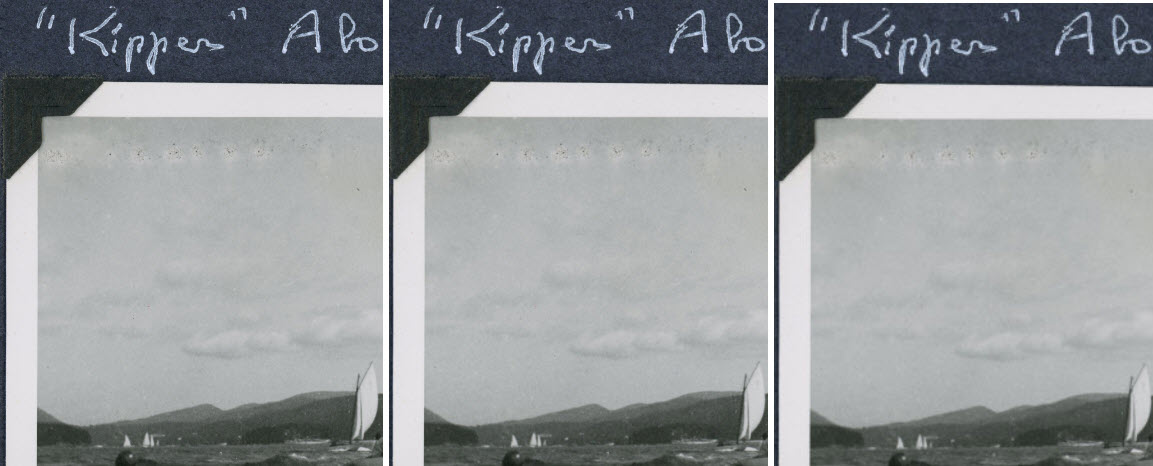
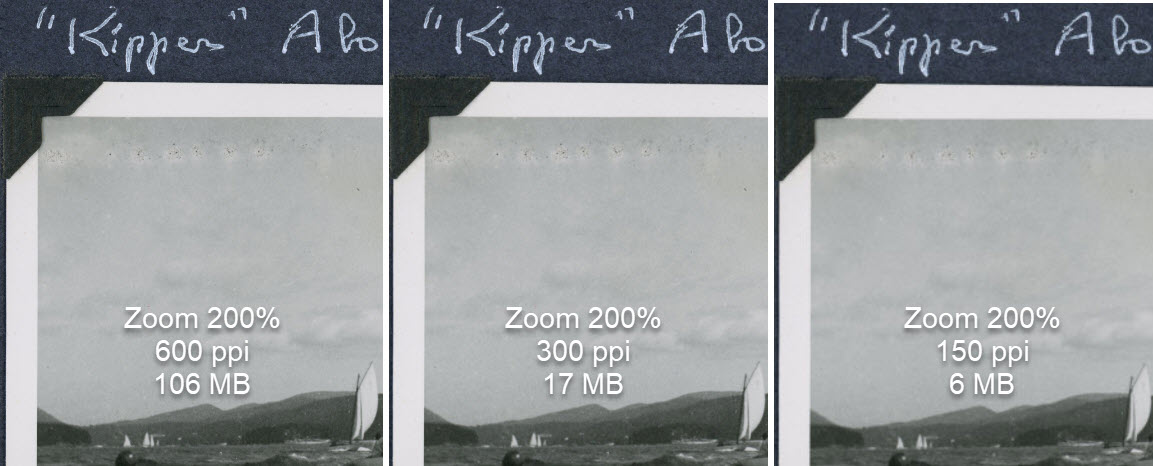
Updates.

Changed region(s): [[0.0937, 0.6609, 0.2498, 0.8712], [0.4371, 0.6609, 0.5932, 0.8712], [0.7806, 0.6609, 0.9367, 0.8712]]

diff --git a/digital-archive/docs/archivist/creating-pdfs.md b/digital-archive/docs/archivist/creating-pdfs.md
@@ -142,7 +142,13 @@ different results. Also, every PDF file is different and so you may need to expe
 for a specific file.
 
 This section focuses on the settings for color images, but the concepts are the same for monochrome images.
-The key options are **_Downsample_** and **_Compression_**, each of which has multiple sub-options.
+The key options are:
+
+- **_Downsample_**
+- **_Compression_**
+
+Downsampling reduces the resolution of images contained in the PDF and compression makes the downsized images
+take up less space in the PDF file. It is the combination of the two settings that makes the PDF file itself smaller.
 
 #### Downsample options
 Downsampling is the process of scaling an image down to smaller dimensions by discarding some of the image's
@@ -151,6 +157,9 @@ pixels using a downsampling algorithm. Here are guidelines for what options to c
 - Choose `Bicubic Downsampling` for the downsampling algorithm.
 - Type a ppi value in the first field and accept the value that appears in the second field.
 - Choose a ppi that is between 1/2 and 1/4 of the resolution used for scanning.
+
+As a guideline, cut the scanned resolution in half when the image may need to be viewed zoomed-in and
+file size is less important. Cut it to a quarter if file size is most important.
 
 Think of the ppi value like this. If you scanned an image at 600 ppi, typing 300 in the first field
 would be equivalent to rescanning the image at 300 ppi and the result would be in an image that had
@@ -165,28 +174,35 @@ acceptable quality and file size. When viewed on a computer monitor at 100%, you
 notice the difference between 600, 300 and 150 ppi results, but when zoomed in to 200% or 400%, the
 150 ppi result would look softer (not as sharp).
 
-The screenshot below shows what part of an image looks like when viewed at 200% on a computer monitor.
-The image was scanned at 600 ppi. From left to right, the images are shown at 600 ppi (before the PDF
-was optimized), 300 ppi, and 150 ppi.
+The screenshot below shows one of 13 scans from a photo album having pages 11.7" x 8.5" pages. The
+red rectangle shows the part of the page that is shown in the next set of screenshots.
+
+![pdf](pdf-5.jpg)
+
+The screenshots below shows what part of a page from the photo album looks like when viewed on
+a computer monitor zoomed in to 200%. The image was scanned at 600 ppi. From left to right, the
+images are shown at 600 ppi (before the PDF was optimized), 300 ppi, and 150 ppi. The files sizes
+(106 MB, 17 MB, and 6 MB) are for all 13 pages of the album.
 
 ![pdf](pdf-4.jpg)
-
-As a guideline, cut the scanned resolution in half when the image may need to be viewed zoomed-in and
-file size is less important. Cut it to a quarter if file size is most important.
 
 You can see the effects of downsampling in the [PPI decision tree](Scanner-PPI-Decision-Tree-by-George-Soules.pdf)
 document on pages 3 and 4.
 
 #### Compression options
 
-The **_Compression_** option is easy to choose. First, always choose `JPEG` for the type of compression. For **_Quality_**
-choose `High` when using Acrobat Pro and choose `Medium` when using Foxit. Based on experiments, Acrobat produced good
-results with high quality, but not with medium quality whereas Foxit results for high and medium were similar, but the
-resulting file size was much smaller with medium. Acrobat created an even smaller file at high quality than Foxit did with
-medium.
+The **_Compression_** option is easy to choose.
 
-Since you'll probably be using only one PDF program, you'll need to do your own experiments to determine which settings
-give you the best combination of quality and file size.
+- Choose `JPEG` for the type of compression.
+- Choose `High` **_Quality_** when using Acrobat Pro.
+- Choose `Medium` **_Quality_** when using Foxit.
+
+Based on experiments, Acrobat produced good results with high quality, but not with medium quality. Foxit results for high and medium quality
+were similar, but the resulting file size was much smaller with medium. However, Acrobat created an even smaller file at high quality than
+Foxit did with medium. More testing is needed, but it may be that Acrobat is the better product for PDF optimization.
+
+Whichever program you use, you'll need to do your own experiments to determine which settings
+give you the best combination of quality and file size for specific PDF files.
 
 ## Alternate approach for creating a right-sized PDF
 This section describes an alternate approach that is not recommended, but is explained in case you come up with this idea and
